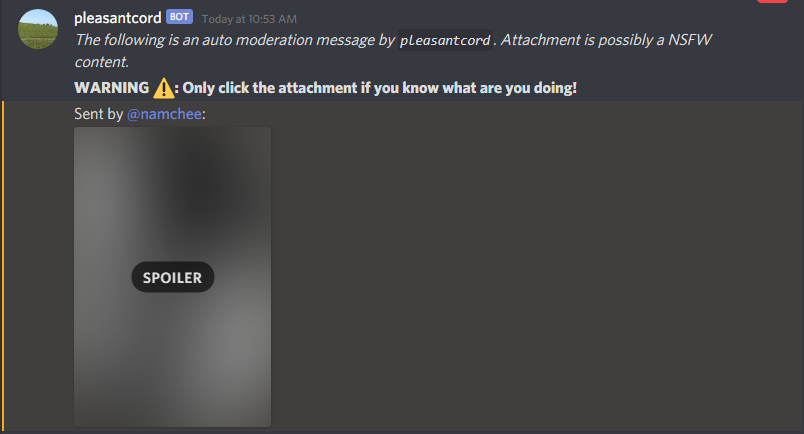
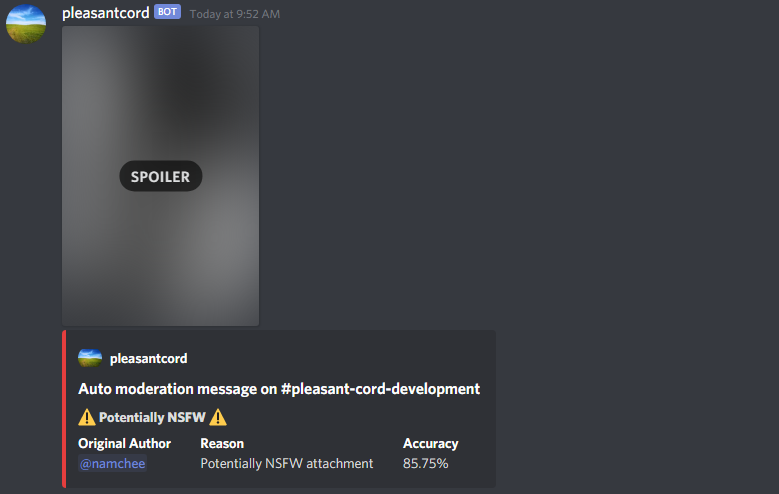
feat: Rich embed message (#1)
* feat: Use better formatting with Discord's rich embed

* docs: Update docs with new image

Changed region(s): [[0.0, 0.0, 0.8935, 0.9885], [0.5237, 0.8687, 0.5854, 0.9585], [0.9551, 0.0, 0.9859, 0.03]]

diff --git a/src/events/message.ts b/src/events/message.ts
@@ -1,51 +1,75 @@
-import { Message } from 'discord.js';
+import { Message, MessageEmbed, TextChannel } from 'discord.js';
 import { isNSFW } from './../service/nsfw.classifier';
 import { fetchImage } from './../service/image.downloader';
 
 export default {
   event: 'message',
   fn: async (msg: Message): Promise<void> => {
-    if (msg.author.bot ||
-      msg.attachments.size === 0) {
+    const { author, attachments, content } = msg;
+    const channel = msg.channel as TextChannel;
+
+    if (author.bot || attachments.size === 0) {
       return;
     }
 
-    for (const attachment of msg.attachments) {
+    for (const attachment of attachments) {
       const { url } = attachment[1];
 
       if (/\.(jpg|png|jpeg)$/.test(url)) {
-        const { isSFW } = await isNSFW(url);
+        const verdict = await isNSFW(url);
 
-        if (!isSFW) {
-          /* eslint-disable */
-
+        if (!verdict.isSFW) {
           const image = await fetchImage(attachment[1].url);
+          const confidence = verdict.confidence as number;
 
-          const moderation = msg.channel.send(
-            '_The following is an auto moderation message by `pleasantcord`. Attachment is possibly a NSFW content._',
-          );
-
-          const warning = msg.channel.send(
-            '**WARNING ⚠: Only click the attachment if you know what are you doing!**',
-          );
-
-          const originalMessage = msg.channel.send(
-            `Sent by ${msg.author}: ${msg.content}`,
+          const fields = [
             {
-              files: [{
-                attachment: image,
-                name: `SPOILER_${attachment[1].name}`,
-              }]
+              name: 'Original Author',
+              value: author.toString(),
+              inline: true,
             },
+            {
+              name: 'Reason',
+              value: 'Potentially NSFW attachment',
+              inline: true,
+            },
+            {
+              name: 'Accuracy',
+              value: `${(confidence * 100).toFixed(2)}%`,
+              inline: true,
+            },
+          ];
+
+          if (content) {
+            fields.push(
+              { name: 'Original Content', value: content, inline: false },
+            );
+          }
+
+          const moderationMessage = channel.send(
+            new MessageEmbed({
+              author: {
+                name: 'pleasantcord',
+                icon_url: 'https://images.unsplash.com/photo-1592205644721-2fe5214762ae?ixlib=rb-1.2.1&ixid=eyJhcHBfaWQiOjEyMDd9&auto=format&fit=crop&w=667&q=80',
+              },
+              title: `Auto moderation message on #${channel.name}`,
+              fields,
+              description: '**⚠ Potentially NSFW ⚠**',
+              color: '#E53E3E',
+              files: [
+                {
+                  attachment: image,
+                  name: `SPOILER_${attachment[1].name}`,
+                },
+              ],
+            }),
           );
 
           const del = msg.delete({
             reason: 'Possible NSFW content',
           });
 
-          /* eslint-enable */
-
-          await Promise.all([moderation, warning, originalMessage, del]);
+          await Promise.allSettled([moderationMessage, del]);
 
           return;
         }

diff --git a/README.md b/README.md
@@ -18,7 +18,7 @@ Currently, it only has minimal features. Probably will be developed further in t
 
 ## Installation
 
-> Currently, you **MUST** self-host this bot yourself
+> Currently, you **MUST** self-host this bot yourself. In the future, I'll create the public version
 
 1. Clone the repository
 2. Navigate to your freshly cloned git directory
@@ -31,7 +31,7 @@ Currently, it only has minimal features. Probably will be developed further in t
 
 ## Configuration
 
-NSFW probability limit can be configured in `src/config/api.ts`. The default value is 0.85 [per Clarifai's suggestion](https://www.clarifai.com/models/nsfw-image-recognition-model-e9576d86d2004ed1a38ba0cf39ecb4b1), however you can customize it as you wish.
+NSFW probability limit can be configured in `src/config/api.ts`. The default value is `0.85` (85%) [per Clarifai's suggestion](https://www.clarifai.com/models/nsfw-image-recognition-model-e9576d86d2004ed1a38ba0cf39ecb4b1), however you can customize it as you wish.
 
 Example:
 
@@ -48,6 +48,10 @@ Discord has [NSFW Channel System](https://support.discord.com/hc/en-us/articles/
 on SFW channels and still requires manual moderation. This bot aims to fix that.
 
 > Disclaimer: Due to limited time and ideas, the bot can only cover the NSFW contents in spoiler tags
+
+## Acknowledgements
+
+- Profile image is taken from [this Unsplash image](https://unsplash.com/photos/6F2k0tqNuG4) by [Hongru Wang](https://unsplash.com/@hongru_wang)
 
 ## License
 
